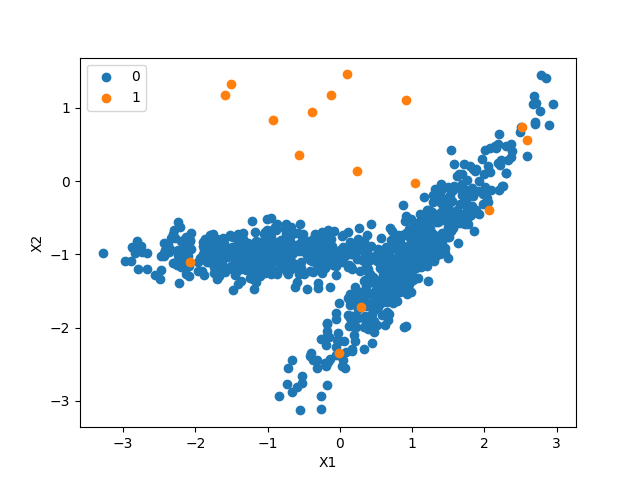
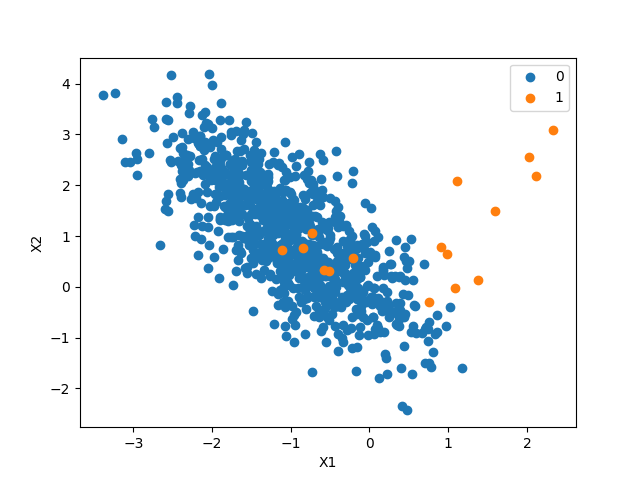
update file names and README.md

diff --git a/unbalanced.py b/unbalanced.py
@@ -14,7 +14,7 @@ X, y = make_classification(
     n_samples=1000, 
     n_features=2, 
     n_redundant=0, 
-    n_clusters_per_class=2, 
+    n_clusters_per_class=1, 
     weights=[0.99, 0.01], 
     flip_y=0.01, 
     random_state=0)
@@ -105,7 +105,7 @@ print(f'f1_score = {f1_score(y_test, y_pred):.2f}')
 
 
 
-
+sfgsdfgsdgfsdfgsdfg
 
 
 

diff --git a/README.md b/README.md
@@ -1,1 +1,1 @@
-### Example imbalanced classification problem with scikit-learn
+### Example unbalanced classification problem with scikit-learn
